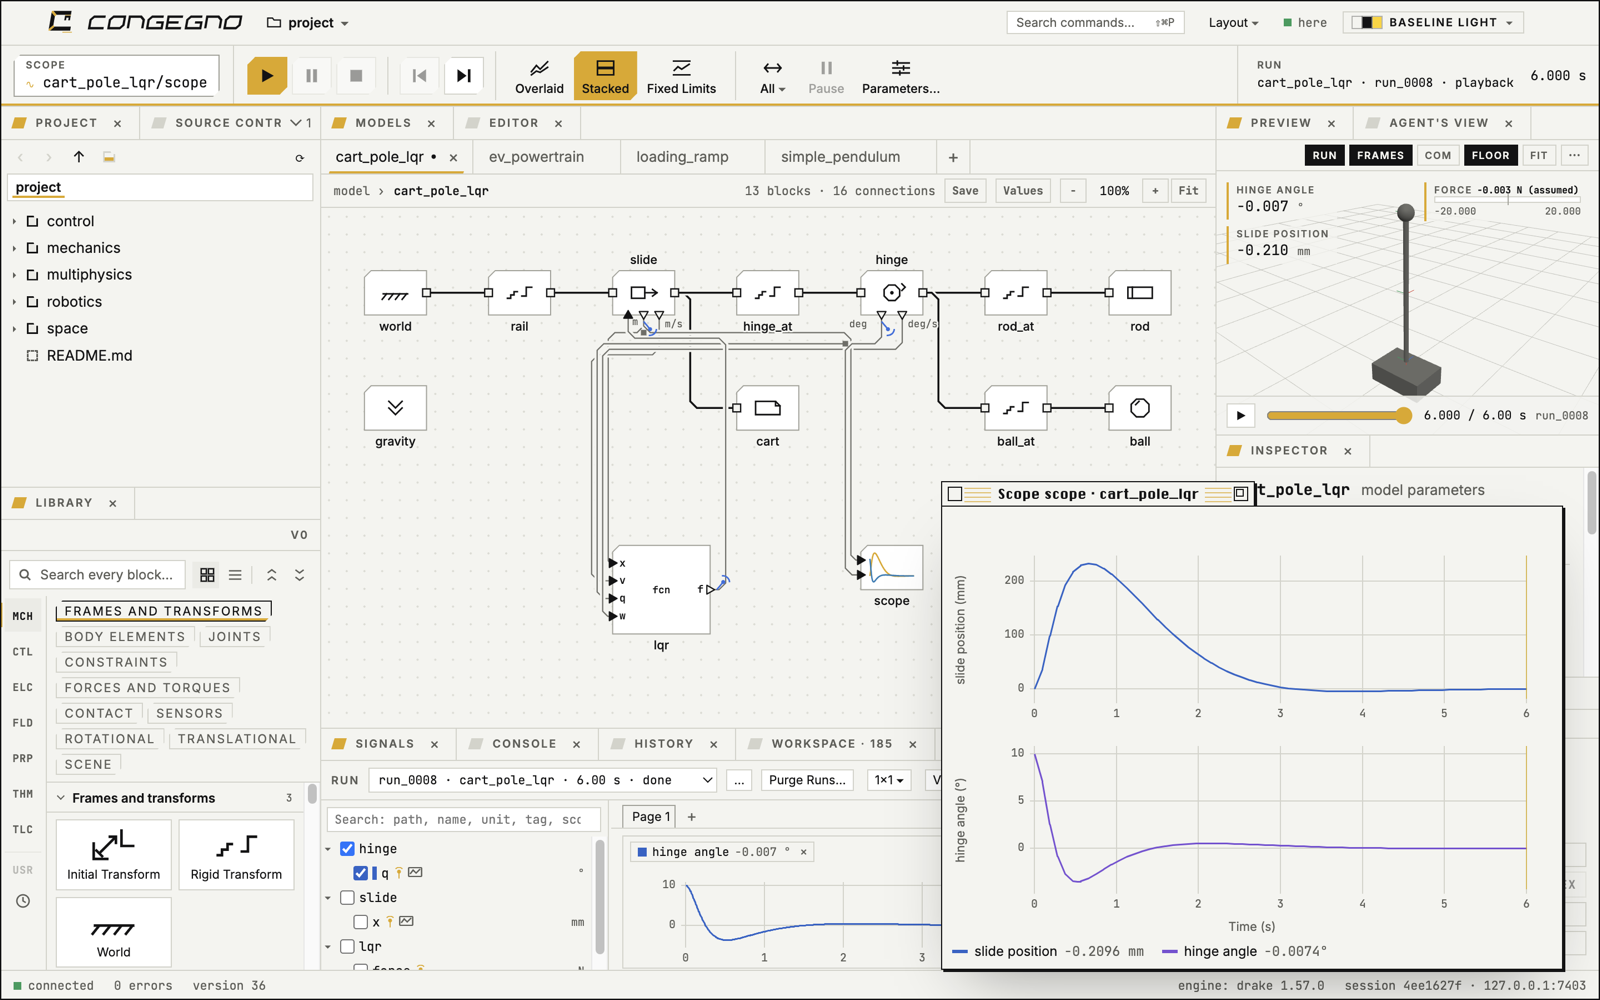
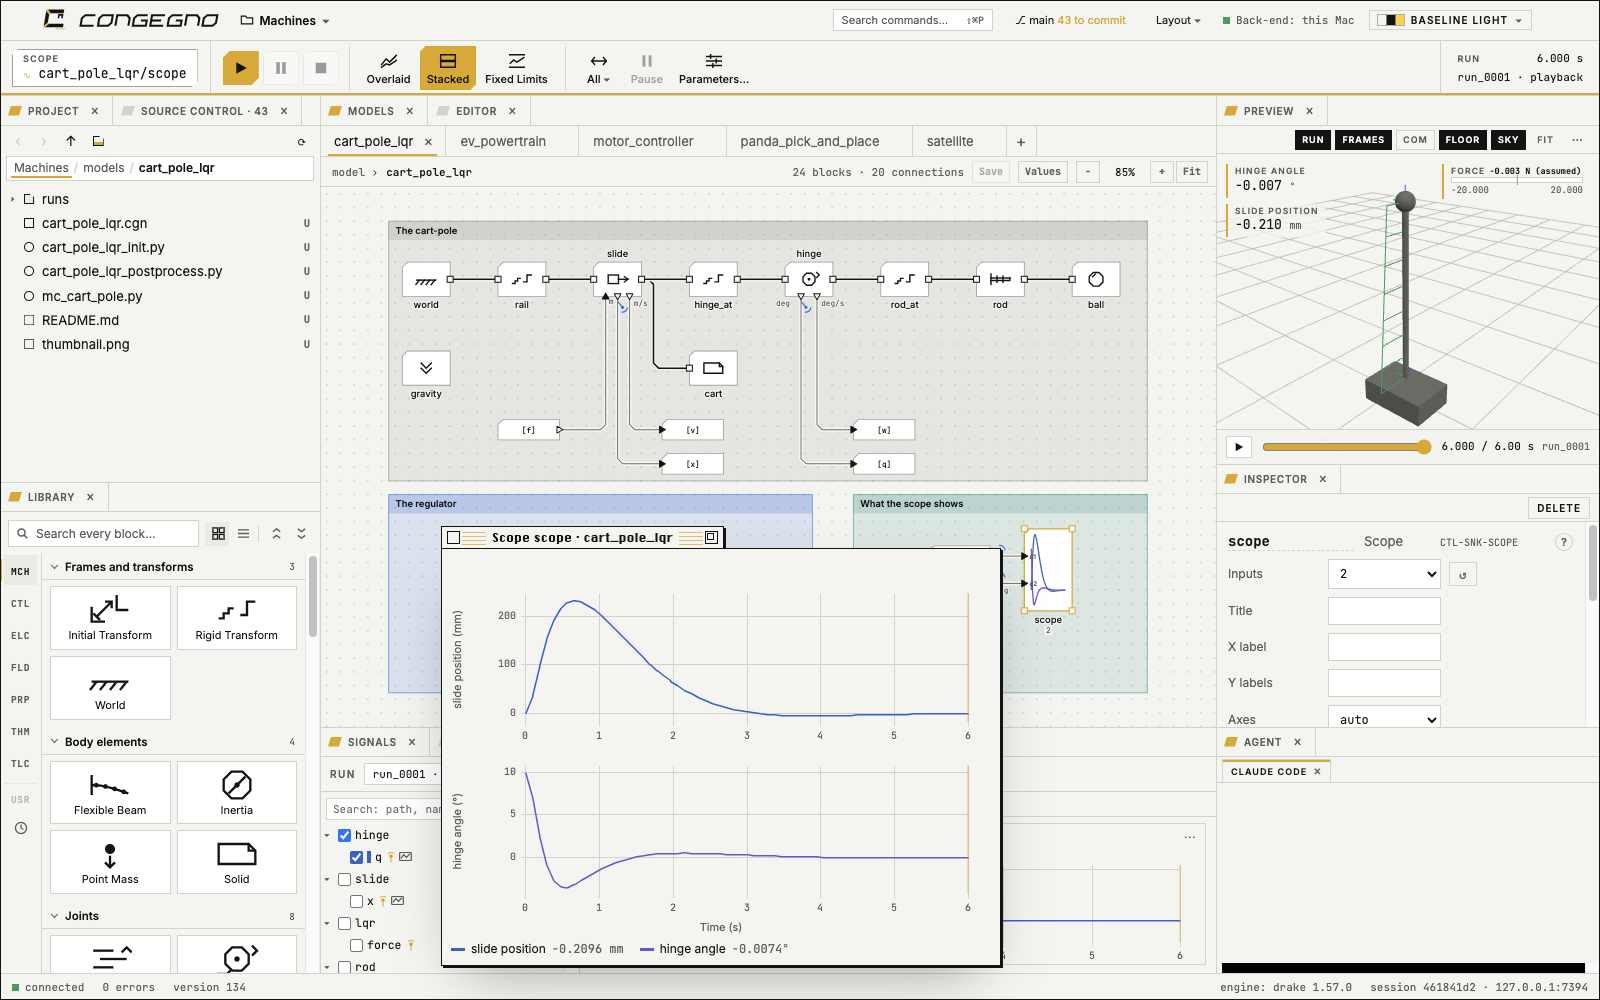
The first public preview, 0.1.0-preview.2: downloads for macOS, Linux and Windows, Windows's install, updates and a preview's 90 days, the licence's version 2, pictures of the app as it is

diff --git a/README.md b/README.md
@@ -7,7 +7,7 @@ multibody mechanics, physical networks and state machines live in one model, in 
 
 *Congegno* is Italian for "mechanism" (con-JEN-yo).
 
-![A pendulum's model, its 3D view and the Library](images/workspace.png)
+![An electric car's powertrain on the canvas: battery, inverter and motor as physical networks, field-oriented control in blocks, a thermal network](images/workspace.png)
 
 This repository holds Congegno's **downloads**, its **release notes** and its **issue reports**. Congegno is free to
 try under the [Congegno Preview Licence](LICENSE.md). It is not open source.
@@ -31,27 +31,25 @@ try under the [Congegno Preview Licence](LICENSE.md). It is not open source.
 - **Everything is a file**: a model is a plain text file you can read, compare and keep under Git.
 
 ![A cart-pole balanced by an LQR controller, with its scope](images/control.png)
-![A dashboard built from the model's probes](images/dashboard.png)
+![A satellite's dashboard built from the model's probes, beside its 3D view](images/dashboard.png)
 ![Two robot arms picking and placing, one of the examples](images/panda.png)
 
-The examples that come with Congegno (Help ▸ Examples…) are a good place to start.
+The eight examples on the start page (also Help ▸ Examples…) are a good place to start: each card copies one into your project and runs its init script.
 
 ## Download
 
-Get the latest build from [Releases](../../releases). Congegno is a preview: expect rough edges, and tell us about
-them.
+The current build is **[0.1.0-preview.2](../../releases/tag/v0.1.0-preview.2)**, a free preview. Expect rough edges, and tell us about them.
 
-| System | File |
+| System | Download |
 |---|---|
-| macOS, Apple Silicon | `Congegno-<version>-arm64.dmg` |
-| macOS, Intel | `Congegno-<version>-x64.dmg` |
-| Linux x86_64 | `Congegno-<version>-linux-x86_64.AppImage` |
-| Linux aarch64 | `Congegno-<version>-linux-aarch64.AppImage` (newer and less tested: tell us how it goes) |
-| Windows | coming: it will be added to this release once tested |
+| macOS, Apple Silicon | [`Congegno-0.1.0-preview.2-arm64.dmg`](https://github.com/msavox/congegno-releases/releases/download/v0.1.0-preview.2/Congegno-0.1.0-preview.2-arm64.dmg) |
+| macOS, Intel | [`Congegno-0.1.0-preview.2-x64.dmg`](https://github.com/msavox/congegno-releases/releases/download/v0.1.0-preview.2/Congegno-0.1.0-preview.2-x64.dmg) |
+| Linux x86_64 | [`Congegno-0.1.0-preview.2-linux-x86_64.AppImage`](https://github.com/msavox/congegno-releases/releases/download/v0.1.0-preview.2/Congegno-0.1.0-preview.2-linux-x86_64.AppImage) |
+| Windows 10 and 11, 64-bit | [`Congegno-0.1.0-preview.2-windows-x64.exe`](https://github.com/msavox/congegno-releases/releases/download/v0.1.0-preview.2/Congegno-0.1.0-preview.2-windows-x64.exe) |
 
 Each file has a `.sha256` beside it, and each is complete: its own Python, the engines, OpenModelica with the Modelica
-Standard Library and a C compiler. Nothing is downloaded when Congegno first starts, and you need no Xcode, Homebrew
-or Python of your own.
+Standard Library and a C compiler (on an Intel Mac and on Windows, inside the small Linux system that runs the
+engines). You need no Xcode, Homebrew or Python of your own. Every release is in [Releases](../../releases).
 
 ## System requirements
 
@@ -60,8 +58,12 @@ or Python of your own.
   itself: the download is about 1.5 GB larger, and Linux takes more disk once prepared. The first launch of a new
   version takes a minute or two to prepare it, and each launch about twenty seconds to start it. By default it gets
   all the cores and half the memory, at least 4 GB; File ▸ Back-End Settings… changes that.
-- **Linux**: x86_64 or aarch64, glibc 2.34 or later (Debian 12, Ubuntu 22.04, Fedora 35 and later), and FUSE
-  (`fuse3`; most desktops have it). No root access is needed. The AppImage is one file of under 1 GB.
+- **Linux**: x86_64, glibc 2.34 or later (Debian 12, Ubuntu 22.04, Fedora 35 and later), and FUSE (`fuse3`; most
+  desktops have it). No root access is needed. The AppImage is one file of under 1 GB.
+- **Windows**: Windows 10 (version 1809 or later) or 11, 64-bit, 8 GB of memory or more, and the **Windows Hypervisor
+  Platform** turned on. As on an Intel Mac, simulations run in a small Linux system that Congegno starts by itself,
+  under [QEMU](https://qemu.weilnetz.de/w64/), which Congegno does not include: it finds it, or installs it for you
+  from its publisher on its first start.
 
 ## Install on macOS
 
@@ -86,7 +88,7 @@ Without Terminal: open Congegno, let macOS refuse it, then go to System Settings
 With the GitHub CLI, one command downloads a release, checks its SHA-256 and installs it:
 
 ```sh
-gh release download <tag> --repo msavox/congegno-releases --pattern install_release.sh && bash install_release.sh <tag>
+gh release download v0.1.0-preview.2 --repo msavox/congegno-releases --pattern install_release.sh && bash install_release.sh v0.1.0-preview.2
 ```
 
 ## Install on Linux
@@ -94,33 +96,66 @@ gh release download <tag> --repo msavox/congegno-releases --pattern install_rele
 Make the AppImage executable and open it:
 
 ```sh
-chmod +x Congegno-<version>-linux-x86_64.AppImage
-./Congegno-<version>-linux-x86_64.AppImage
+chmod +x Congegno-0.1.0-preview.2-linux-x86_64.AppImage
+./Congegno-0.1.0-preview.2-linux-x86_64.AppImage
 ```
 
-Where FUSE is missing, `./Congegno-<version>-linux-x86_64.AppImage --appimage-extract-and-run` opens it.
+Where FUSE is missing, `./Congegno-0.1.0-preview.2-linux-x86_64.AppImage --appimage-extract-and-run` opens it.
 
 To install it with a desktop entry, icons and the file types of `.cgn` and `.cgnproj`, download
 `install_release_linux.sh` from the release, keep the AppImage's `.sha256` beside the AppImage, and run:
 
 ```sh
-bash install_release_linux.sh ./Congegno-<version>-linux-x86_64.AppImage
+bash install_release_linux.sh ./Congegno-0.1.0-preview.2-linux-x86_64.AppImage
 ```
 
 It checks the checksum, copies the AppImage to `~/Applications/Congegno.AppImage` and adds Congegno to your
 applications.
 
+## Install on Windows
+
+The installer is not signed yet, so Windows asks once.
+
+1. Turn on **Windows Hypervisor Platform**: Settings ▸ System ▸ Optional features ▸ More Windows features, tick it,
+   OK, and restart Windows. Or, in PowerShell as administrator:
+
+   ```powershell
+   Enable-WindowsOptionalFeature -Online -FeatureName HypervisorPlatform
+   ```
+
+2. Run `Congegno-0.1.0-preview.2-windows-x64.exe`. SmartScreen says it protected your PC: choose **More info ▸ Run
+   anyway**. No administrator is asked for: Congegno goes in your own programs folder.
+3. Open Congegno. Without QEMU the splash screen says so: **Download and Install QEMU** downloads Stefan Weil's
+   installer, checks it against its publisher's checksum, shows who signed it and runs it (Windows asks for
+   permission for that step only). Or install QEMU yourself and Congegno finds it, or point it at QEMU's folder with
+   **I Have QEMU In…**.
+4. Congegno then prepares its Linux, a few minutes the first time, and opens the workspace. Your projects live on
+   that Linux's disk: File ▸ Import from Windows brings files in, Export to Windows… in the Project panel's menu takes
+   them out, and File ▸ Back Up Projects… saves them all in one `.zip`.
+
 ## First launch
 
 Congegno first shows its terms, the Congegno Preview Licence: **Accept** to go on, or **Quit**. It asks once, and
-again only when a new version of the terms comes. Then it opens the folder `~/Congegno` as its project.
+again only when a new version of the terms comes. Then it opens the folder `~/Congegno` as its project (on Windows, a
+folder of its Linux's disk), and its start page offers eight working examples to copy and run.
+
+## Updates, and how long a preview runs
+
+Once a day Congegno reads this repository's list of releases and tells you when a newer preview, or the stable
+release, is out, with a link to its page; Help ▸ Check for Updates… asks now, and Help ▸ Check for Updates
+Automatically turns it off. Nothing is downloaded or installed for you.
+
+Each preview build runs for **90 days** from the day it was built, and says so two weeks ahead. After that it still
+opens your models and your runs, but starts no new runs until you install a newer one. A preview taken off this page
+tells you it was withdrawn.
 
 ## The licence, in short
 
 Congegno is free to download, install and use to try it, evaluate it, learn and teach with it, and for personal
 projects. It is not for production or commercial use yet: final terms will come. There is no warranty. What you make
 with it is yours, and you may share it. Congegno collects no telemetry and needs no account, licence key or
-activation. It is not open source; it runs open-source engines and libraries (Drake, MuJoCo, OpenModelica and
+activation; the only request it makes by itself is the daily look at this repository's releases, which you can turn
+off. Each preview build runs for 90 days. It is not open source; it runs open-source engines and libraries (Drake, MuJoCo, OpenModelica and
 others) under their own licences, listed in Help ▸ About Congegno ▸ Licences.
 
 The full text is in [LICENSE.md](LICENSE.md), and it is the one that counts.

diff --git a/LICENSE.md b/LICENSE.md
@@ -1,6 +1,6 @@
 # Congegno Preview Licence
 
-Version 1 · 27 October 2026
+Version 2 · 29 October 2026
 
 Copyright © 2026 Matteo Savoia. All rights reserved.
 
@@ -14,7 +14,9 @@ installing or using Congegno you accept this licence. If you do not accept it, d
 - It is not for production or commercial use yet. Final terms will come.
 - There is no warranty. Check every result that matters by other means.
 - What you make with Congegno is yours, and you may share it.
-- No telemetry, no account, no licence key, no copy protection.
+- No telemetry, no account, no licence key. Once a day Congegno asks GitHub whether a newer version is out; you can
+  turn that off.
+- Each preview build runs for 90 days after it was built; then it asks you to install a newer one.
 
 This summary is for convenience. The numbered terms below are the licence.
 
@@ -51,17 +53,24 @@ share pictures, videos and comparisons of Congegno at work. Section 2(a) still a
 You may copy and change the examples that come with Congegno to learn and to start your own models. Files of others
 that an example includes keep their own licence, which sits beside them.
 
-## 4. No telemetry, no copy protection
+## 4. No telemetry, no activation
 
 Congegno collects no telemetry. It sends nothing about you, your computer or your work to the author or to anyone
-else. It needs no account, no licence key and no activation, and it contains no copy protection. It uses the network
-only when you ask it to: a link you open, an AI agent you start in its terminal, a Git remote you use.
+else. It needs no account, no licence key and no activation. It uses the network only when you ask it to (a link you
+open, an AI agent you start in its terminal, a Git remote you use) and for one thing of its own: once a day at most,
+it reads the public list of Congegno's releases on GitHub to tell you when a newer version is out. That request
+carries nothing but what any web request does, which GitHub sees under its own terms. Help ▸ Check for Updates
+Automatically turns it off.
 
 ## 5. A preview
 
 Congegno is a preview: it is incomplete, it changes often, and it may have errors and give wrong results. The author
 may change or stop the preview at any time. The author may end this licence for the preview builds by announcing it
-on the official download page at least 30 days ahead; after that date you must stop using them. A new version of
+on the official download page at least 30 days ahead; after that date you must stop using them.
+
+Each preview build runs for 90 days after the day it was built, a date it shows two weeks ahead. After it, the build
+still opens your models and runs, but no longer starts new runs: install a newer version from the official download
+page. A preview build the author withdraws from that page tells you so, and asks you to install the newer one. A new version of
 Congegno may come with new terms, which it will ask you to accept when it first starts.
 
 ## 6. Final terms
